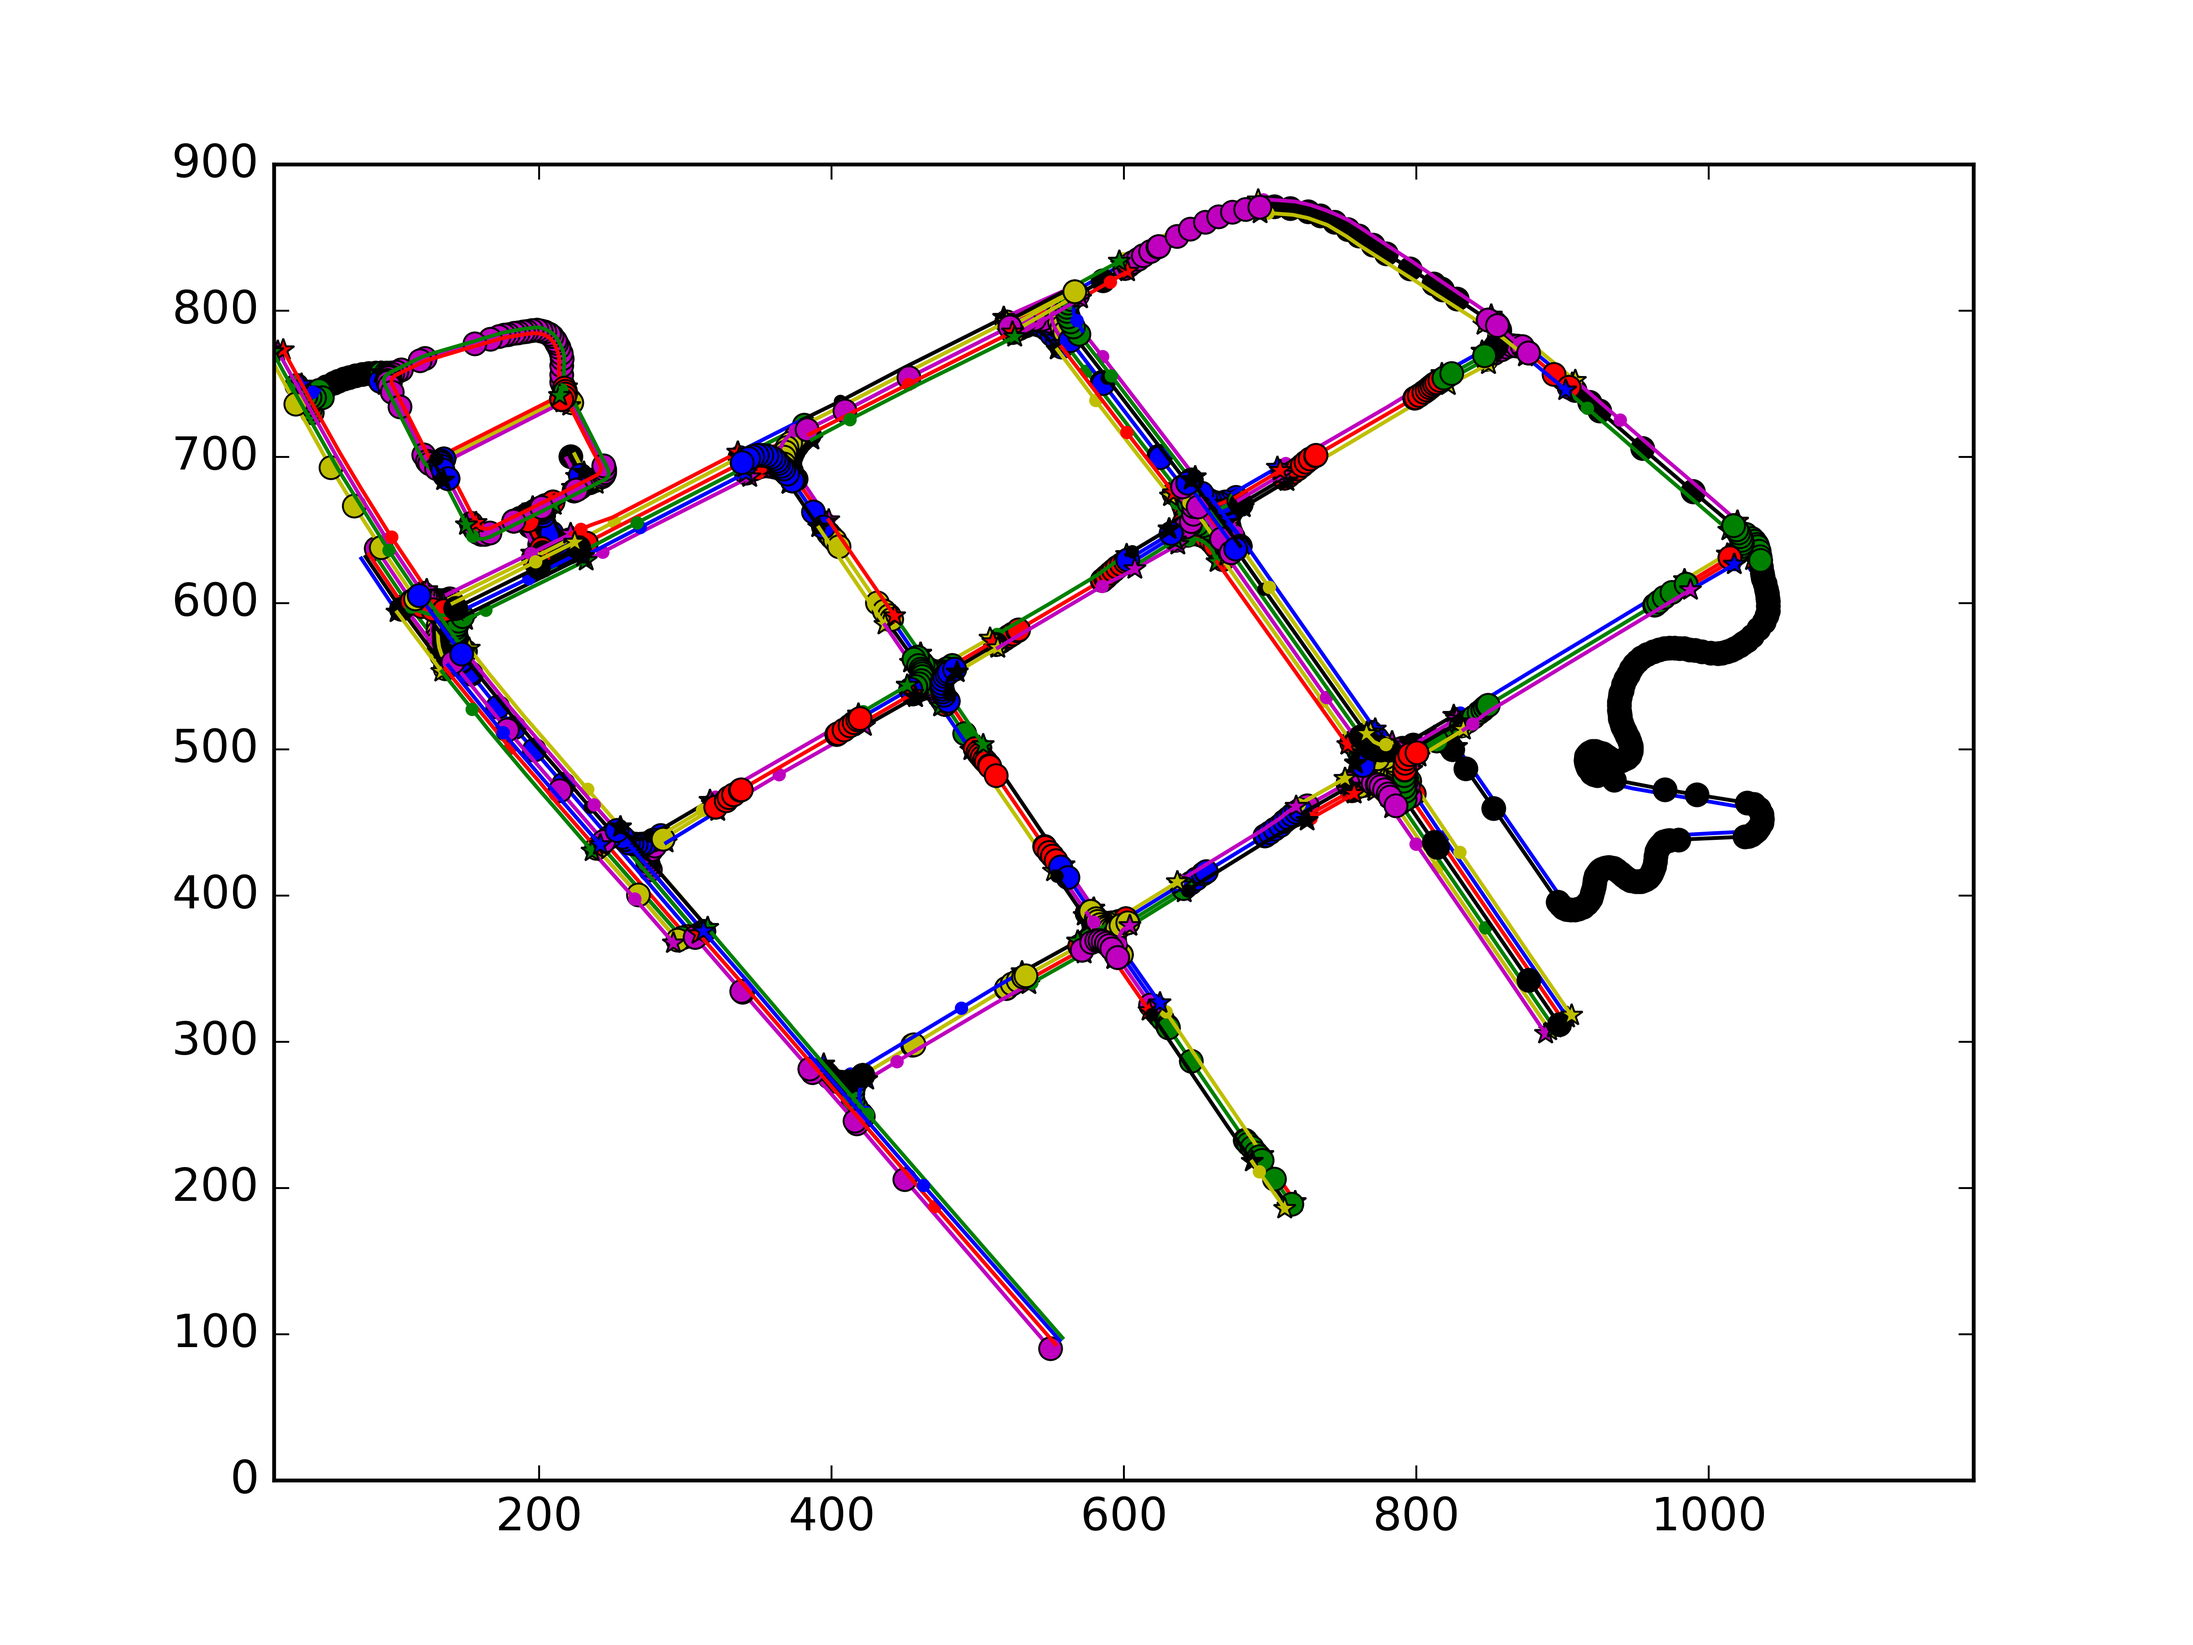
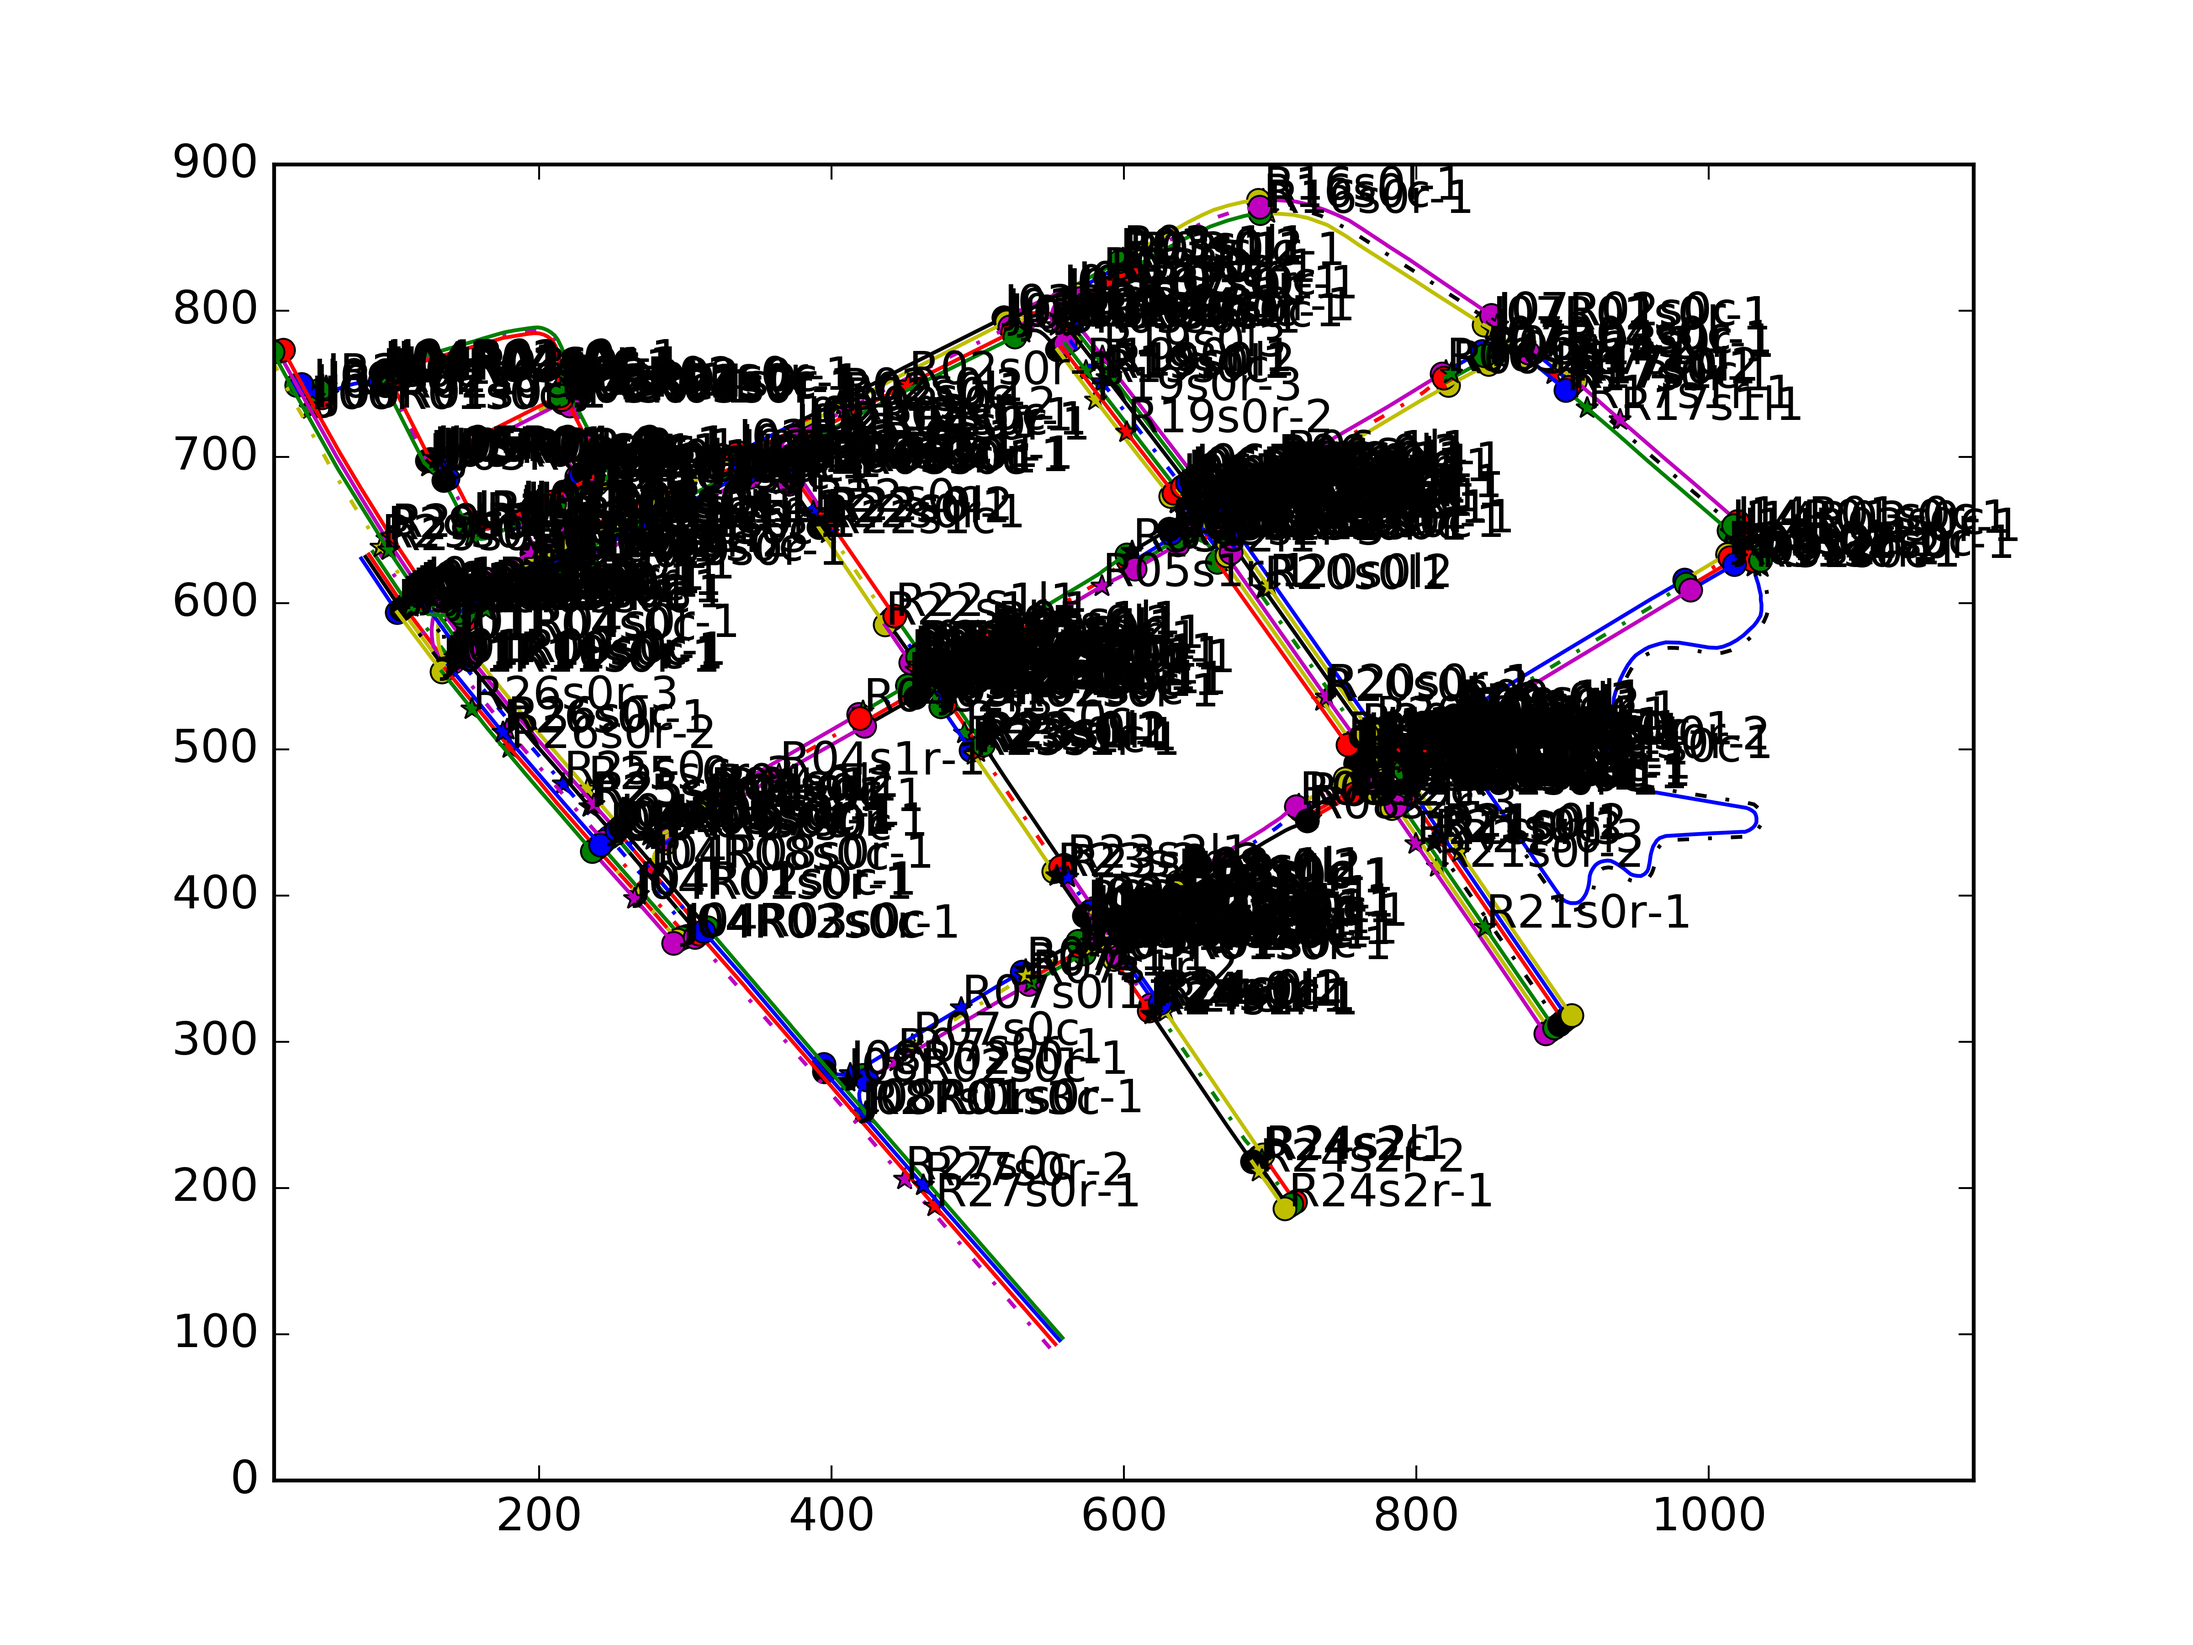
..

diff --git a/road_net/plot_pathInfo.py b/road_net/plot_pathInfo.py
@@ -26,12 +26,12 @@ def drawRoad(road_file, color='r-*'):
 	#add text
 	data = road_file.split('/')
 	text,_ = data[-1].split('.');
-	plt.plot(points[1,0],points[1,1], color+'.')
-	plt.plot(points[-1,0],points[-1,1], color+'*')
-	#plt.text(points[1,0],points[1,1],text)
+	plt.plot(points[1,0],points[1,1], color+'*')
+	plt.plot(points[-1,0],points[-1,1], color+'o')
+	plt.text(points[1,0],points[1,1],text)
 	
 	if(text[-1] == 'c'):
-		plt.plot(points[:,0],points[:,1], color+'-o')
+		plt.plot(points[:,0],points[:,1], color+'-.')
 	else:
 		plt.plot(points[:,0],points[:,1], color)
 		
@@ -58,7 +58,9 @@ def main():
 	
 	cnt = 0
 	for _file in dir_list:
-#		if(_file[0] == 'I'):
+#		data = _file.split('/')
+#		text,_ = data[-1].split('.');
+#		if(text[0] != 'R'):
 #			continue
 		color = colorList[cnt%6]
 		drawRoad(_file, color)

diff --git a/road_net/map2world.py b/road_net/map2world.py
@@ -117,7 +117,7 @@ def main(argv):
 	points = loadPoints(argv[1])
 	points = generateRHO(points) #生成曲率
 	points = rotation(points,1.3) #旋转
-	delta_x = -0.2
+	delta_x = 0.0
 	delta_y = 2.0
 	points = offsetPoints(points, 288477.894+delta_x, 3496772.181+delta_y) #平移
 	points = interpolate(points)#插值
